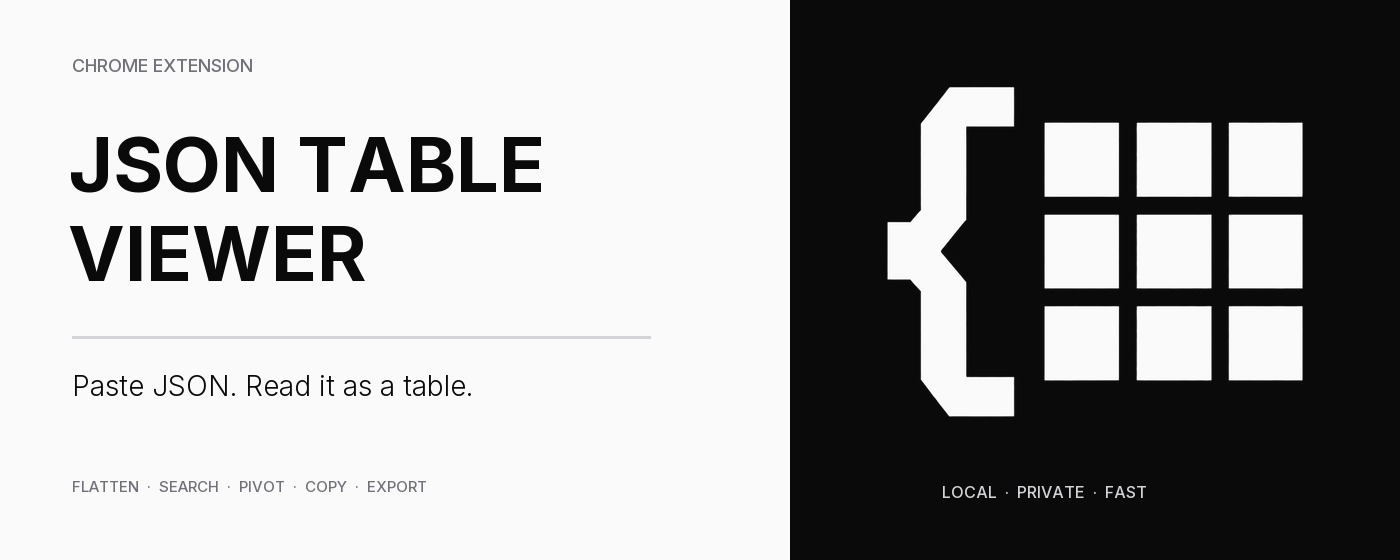
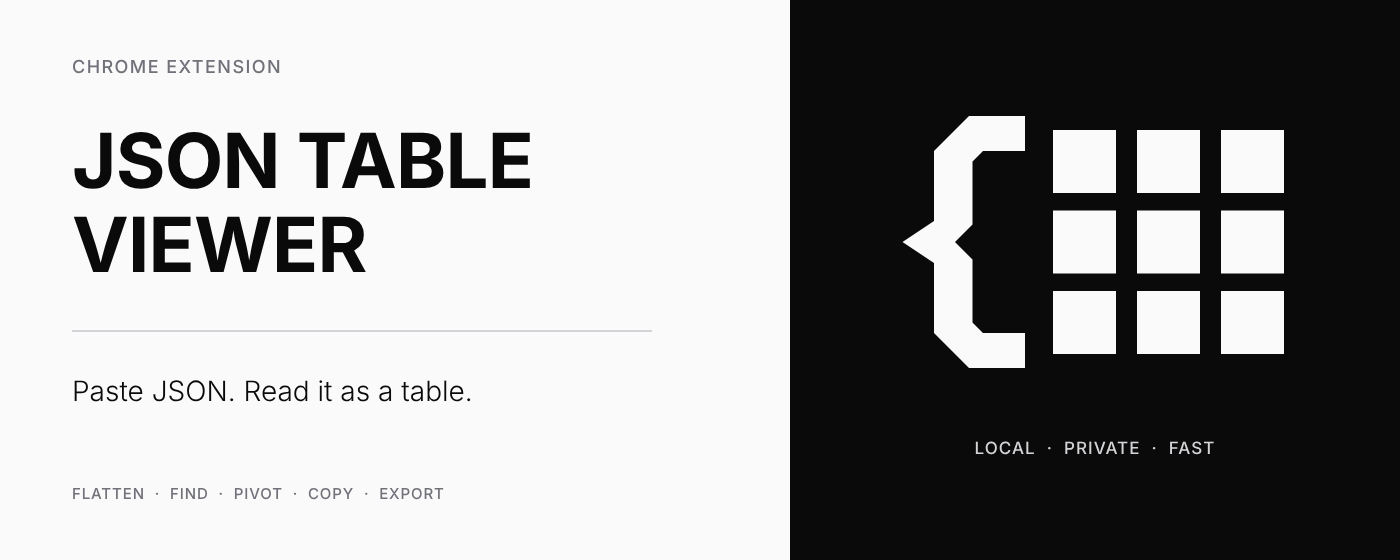
docs: refresh Chrome Web Store assets and add listing text
Redraw the store icon and promo tiles to match XML Table Viewer, add five
1280x800 screenshots, and STORE_LISTING.md with the description, credits,
permission justifications, and privacy answers.

Claude-Session: https://claude.ai/code/session_01DK2wkMGniq2RTUrMnQrze8

diff --git a/store-assets/STORE_LISTING.md b/store-assets/STORE_LISTING.md
@@ -1,0 +1,173 @@
+# Chrome Web Store 등록 자료 — JSON Table Viewer 1.2.2
+
+개발자 대시보드(https://chrome.google.com/webstore/devconsole)의 각 탭에 그대로 복사해서 붙여넣으면 됩니다.
+업로드할 패키지: `json-table-viewer-1.2.2-store.zip` (이 폴더는 패키지에 포함되지 않습니다)
+
+---
+
+## 1. 패키지 (Package)
+
+| 항목 | 값 |
+| --- | --- |
+| 파일 | `json-table-viewer-1.2.2-store.zip` |
+| 버전 | 1.2.2 (`manifest.json`) |
+| Manifest | V3 |
+
+> 이미 스토어에 게시된 버전과 같거나 낮으면 업로드가 거절됩니다. 그 경우 `manifest.json`의 버전을 올려서 다시 패키징하세요.
+
+---
+
+## 2. 스토어 등록정보 (Store listing)
+
+**이름** (manifest에서 자동으로 들어감)
+
+```
+JSON Table Viewer
+```
+
+**요약** (manifest `description`에서 자동으로 들어감)
+
+```
+Convert JSON to table with CSV export, pivot view, and clipboard copy.
+```
+
+**설명** (Description) — 추천: 영어 + 한국어 소개 + 출처
+
+```
+Paste JSON and read it as a table — right in Chrome's side panel.
+
+Built for QA engineers and developers who check API responses every day. Nested objects, arrays, and irregular keys become one flat table you can search, pivot, and paste straight into a bug report.
+
+JSON을 붙여넣으면 사이드 패널에서 바로 표로 보여줍니다. 중첩 객체·배열·불규칙한 키도 한 표로 펼치고, 검색, 피벗, 마크다운 복사, CSV 다운로드를 지원합니다. 데이터는 브라우저 밖으로 나가지 않습니다.
+
+━━━━━━━━━━━━━━━━━━━━
+
+✔ CONVERT
+• Paste, type, or upload a .json file — Convert or Ctrl + Enter
+• Arrays become rows, keys become columns
+• Sample JSON and one-click Reset for a quick try
+
+✔ FLATTEN
+• Nested objects and arrays → columns: address.city, scores[0]
+• Irregular keys across records are merged into one table
+• Original key order is kept
+• null, boolean, number, and string are styled by type
+
+✔ FIND — Ctrl + F
+• Chrome's find bar doesn't work in side panels. This one does.
+• Searches column headers and cells, every match highlighted
+• Enter / Shift + Enter (or F3) to jump · Esc to close
+
+✔ PIVOT
+• Turn fields into rows — wide records fit a narrow panel
+
+✔ COPY & EXPORT
+• Copy as a Markdown table → Jira, GitHub, Confluence, Notion
+• Copy as tab-separated text → Excel, Google Sheets
+• Download CSV
+
+✔ MORE
+• Long values stay on one line; hover to see the full value
+• Panel zoom: Ctrl + = / - / 0
+
+━━━━━━━━━━━━━━━━━━━━
+
+🔒 PRIVATE
+No tracking. No analytics. No network requests.
+Everything runs locally — even offline. Your JSON never leaves your computer.
+
+━━━━━━━━━━━━━━━━━━━━
+
+CREDITS
+UI design adapted from the StudioBlank Design System by Chef (@chef), licensed under the MIT License and available through DESIGN.md. This extension is independently developed and is not affiliated with or endorsed by the original creator or DESIGN.md.
+Fonts: Inter, IBM Plex Mono, Pretendard (SIL Open Font License).
+```
+
+| 항목 | 값 |
+| --- | --- |
+| 카테고리 (Category) | **Developer Tools** |
+| 언어 (Language) | **English** |
+
+### 그래픽 저작물 (Graphic assets)
+
+| 칸 | 파일 | 규격 | 필수 |
+| --- | --- | --- | --- |
+| 스토어 아이콘 | `store-icon-128.png` | 128×128, 투명 여백 16px | ✅ |
+| 스크린샷 1 | `screenshot-1-convert-1280x800.png` | 1280×800 | ✅ (최소 1장) |
+| 스크린샷 2 | `screenshot-2-flatten-1280x800.png` | 1280×800 | |
+| 스크린샷 3 | `screenshot-3-pivot-1280x800.png` | 1280×800 | |
+| 스크린샷 4 | `screenshot-4-find-1280x800.png` | 1280×800 | |
+| 스크린샷 5 | `screenshot-5-export-1280x800.png` | 1280×800 | |
+| 작은 프로모션 타일 | `small-promo-tile-440x280.png` | 440×280 | ✅ |
+| 마키 프로모션 타일 | `marquee-promo-tile-1400x560.png` | 1400×560 | 선택 |
+
+스크린샷과 타일은 알파 채널 없는 24비트 PNG입니다. 기존 스토어 이미지를 교체할 때는 대시보드에서 이전 이미지를 지우고 새로 올리세요.
+
+### 추가 입력란
+
+| 항목 | 값 |
+| --- | --- |
+| 홈페이지 URL | `https://github.com/QA-Justice/json-table-viewer` (공개 저장소) |
+| 지원 URL | `https://github.com/QA-Justice/json-table-viewer/issues` |
+| 성인용 콘텐츠 | 아니요 |
+
+---
+
+## 3. 개인정보 보호 관행 (Privacy practices)
+
+### 단일 목적 (Single purpose description)
+
+```
+JSON Table Viewer has a single purpose: to display JSON that the user pastes or uploads as a readable table in Chrome's side panel. All features — flattening nested objects and arrays into columns, find (Ctrl + F), pivot, copying as Markdown or text, and exporting as CSV — serve only this purpose of viewing and extracting JSON data as a table. All processing happens locally in the browser; no data is collected or transmitted.
+```
+
+### 권한 사용 이유 (Permission justification)
+
+**sidePanel**
+
+```
+The extension's entire UI lives in Chrome's side panel. The sidePanel permission is used to open the viewer there when the user clicks the toolbar icon, so JSON can be read next to the page being tested.
+```
+
+**clipboardRead** (optional permission)
+
+```
+Optional. Requested only when the user clicks the "📋 Paste" button, to read the JSON text the user copied and put it into the input box. The clipboard is read only on that click, never in the background, and the text is processed locally and not stored or sent anywhere. Users who prefer can paste with Ctrl+V instead without granting it.
+```
+
+**호스트 권한 (Host permissions)**: 없음
+
+### 원격 코드 (Remote code)
+
+```
+No, I am not using remote code.
+```
+
+### 데이터 사용 (Data usage)
+
+수집하는 사용자 데이터: **모두 체크하지 않음**
+
+> 붙여넣은 JSON은 브라우저 안에서만 처리되고 저장·전송되지 않습니다. `localStorage`에는 패널 확대 배율만 저장합니다. "Buy me a coffee" 링크는 사용자가 클릭할 때만 새 탭으로 열리며, 데이터를 보내지 않습니다.
+
+인증 3개 모두 체크:
+
+- ☑ I do not sell or transfer user data to third parties, outside of the approved use cases
+- ☑ I do not use or transfer user data for purposes that are unrelated to my item's single purpose
+- ☑ I do not use or transfer user data to determine creditworthiness or for lending purposes
+
+### 개인정보처리방침 URL
+
+수집하는 데이터가 없으므로 필수가 아닙니다. 넣고 싶다면 아래 글을 공개된 곳에 올려 그 URL을 넣으세요.
+
+```
+Privacy Policy — JSON Table Viewer
+
+JSON Table Viewer does not collect, store, or transmit any personal or user data.
+
+• All JSON you paste, type, or upload is processed locally in your browser and is never sent to any server.
+• The extension makes no network requests. It contains no analytics, tracking, or advertising.
+• The optional clipboard permission is used only when you click "Paste", to read the text you copied into the input box. Nothing is stored.
+• The only thing saved is your panel zoom level, in your browser's local storage on your device.
+
+Contact: <연락받을 이메일 주소>
+```
